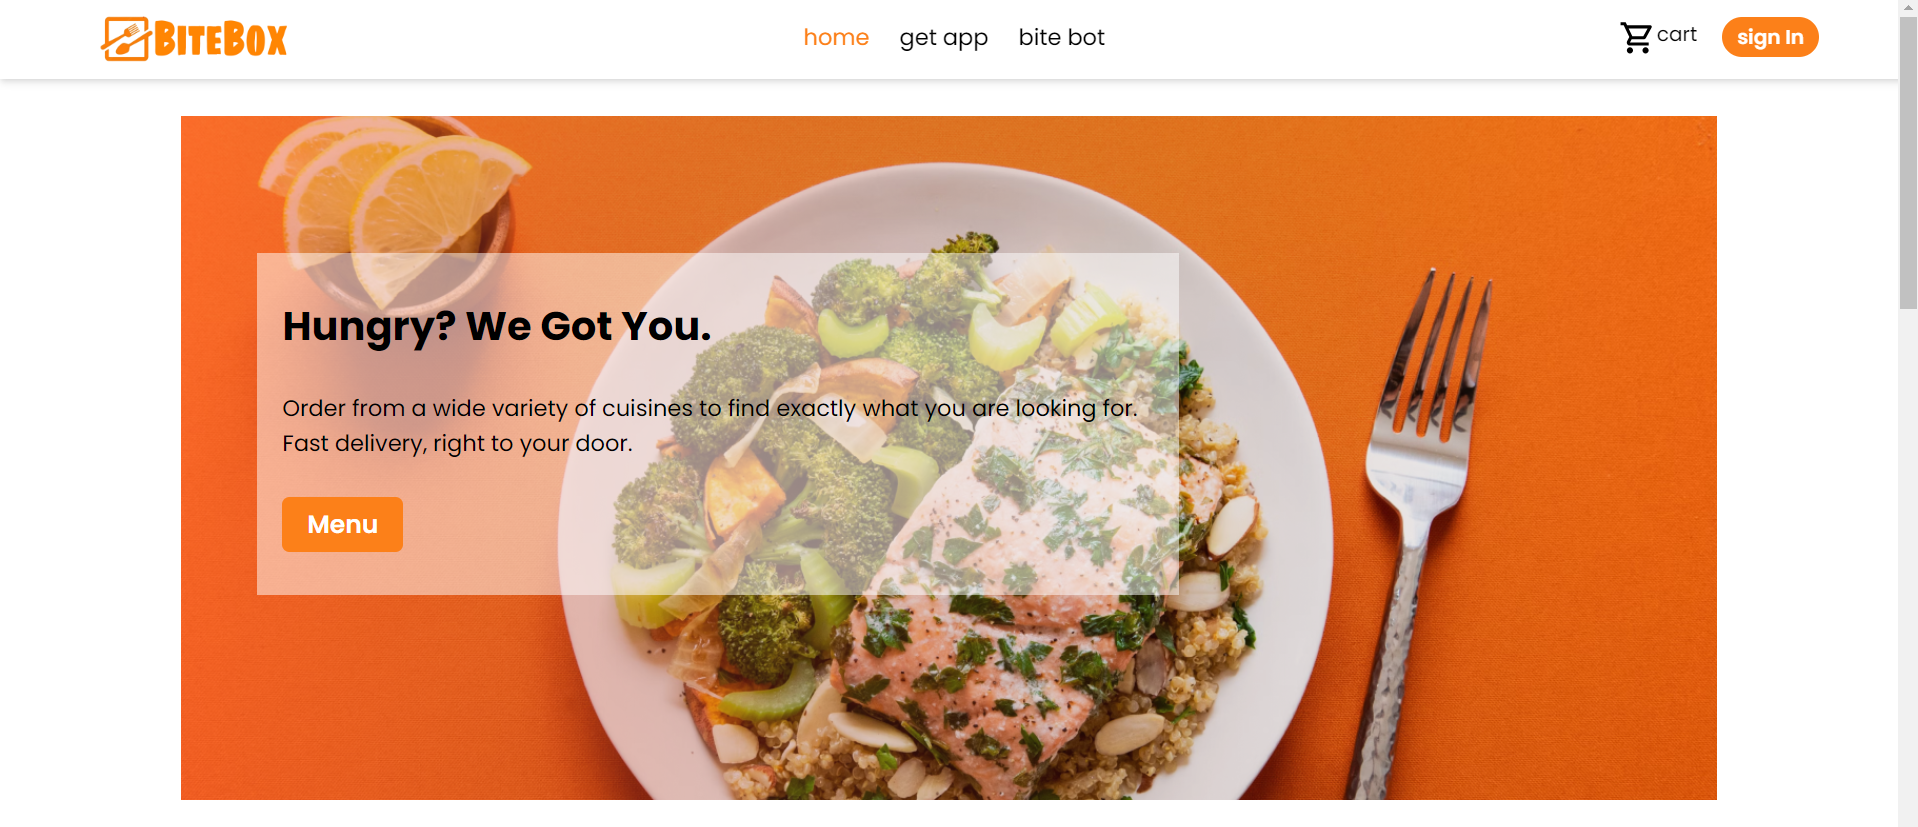
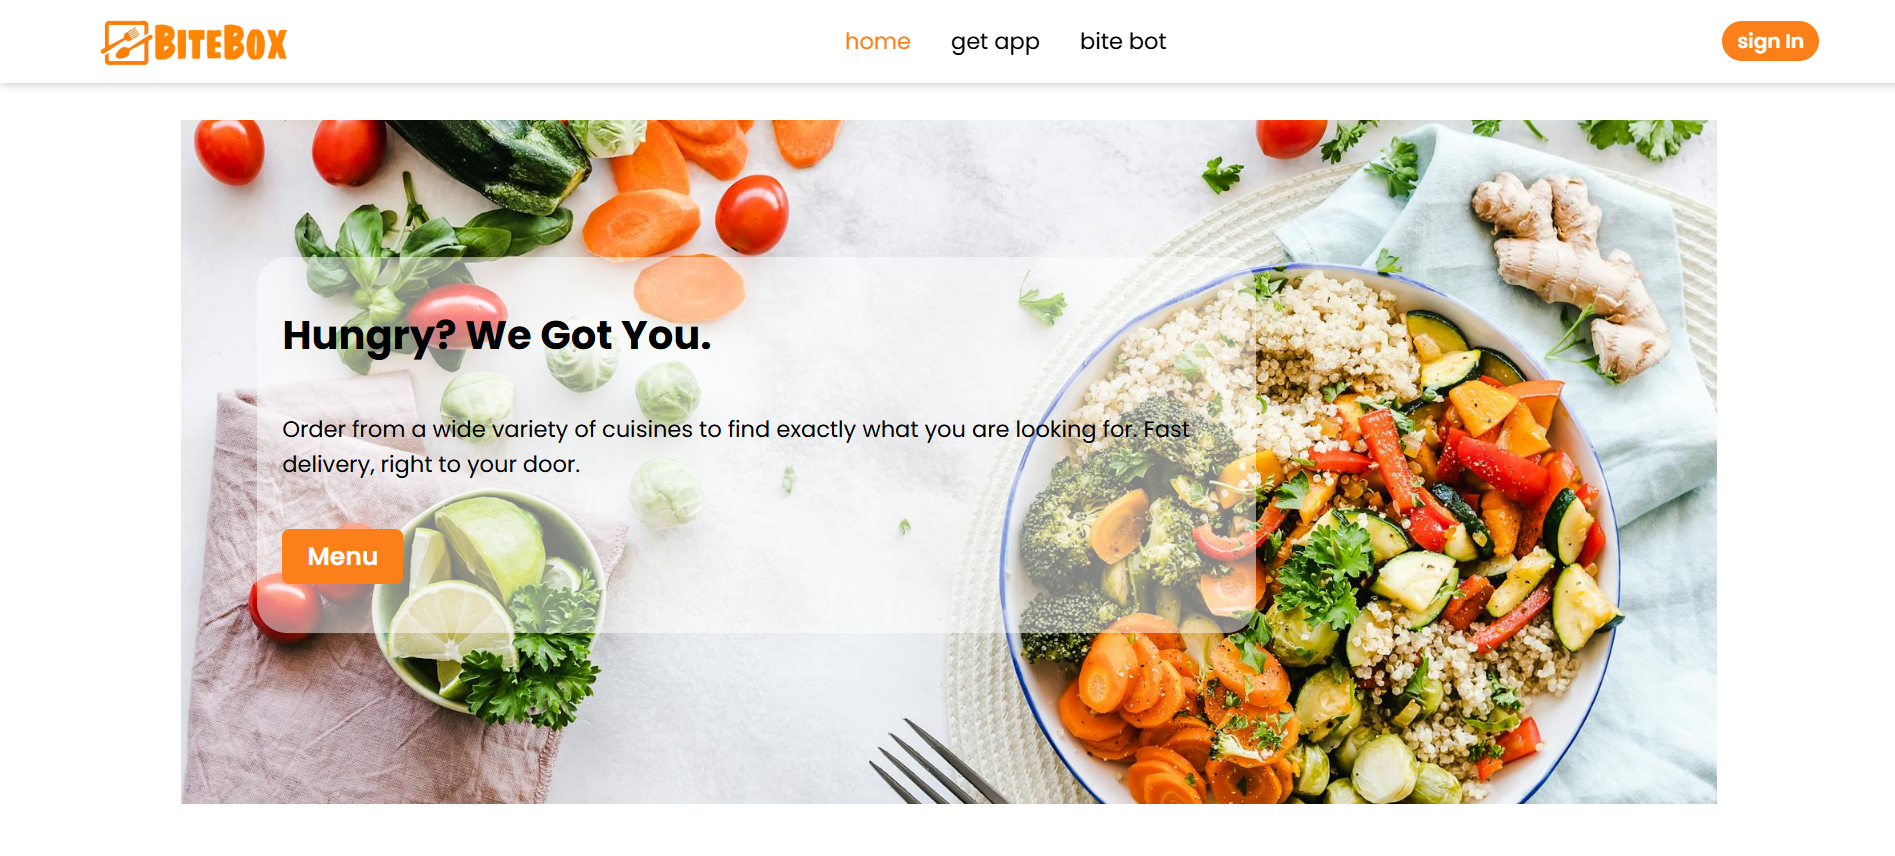
fixed header component, updated assets and readme

diff --git a/src/components/Header.jsx b/src/components/Header.jsx
@@ -3,7 +3,7 @@ import assets from "../assets/assets";
 const Header = () => {
   return (
     <div className="relative w-screen md:w-[80vw] md:h-[75vh] h-[60vw] mx-auto">
-      <div className="bg-alpha md:p-5 p-[2%] flex flex-col items-start justify-around w-[90%] md:w-[60%] h-[80%] md:h-[50%]  absolute md:top-[20%] top-[10%] left-[5%]">
+      <div className="bg-alpha md:p-5 p-[2%] flex flex-col items-start justify-around w-[90%] md:w-[65%] h-[80%] md:h-[55%]  absolute md:top-[20%] top-[10%] left-[5%] rounded-3xl">
         <h1 className="font-bold md:text-[2rem] text-[1.5rem]">
           Hungry? We Got You.
         </h1>
@@ -19,7 +19,7 @@ const Header = () => {
         </a>
       </div>
       <img
-        src={assets.header_img}
+        src={assets.header}
         alt="header"
         className="w-full h-full object-cover"
       />

diff --git a/src/assets/assets.js b/src/assets/assets.js
@@ -1,6 +1,6 @@
 import main_logo from "./main_logo.png";
 import header_img from "./header_img.png";
-import header from "./header.png";
+import header from "./header.jpg";
 import cover from "./cover.jpg";
 import facebook from "./facebook.svg";
 import discord from "./discord.svg";
